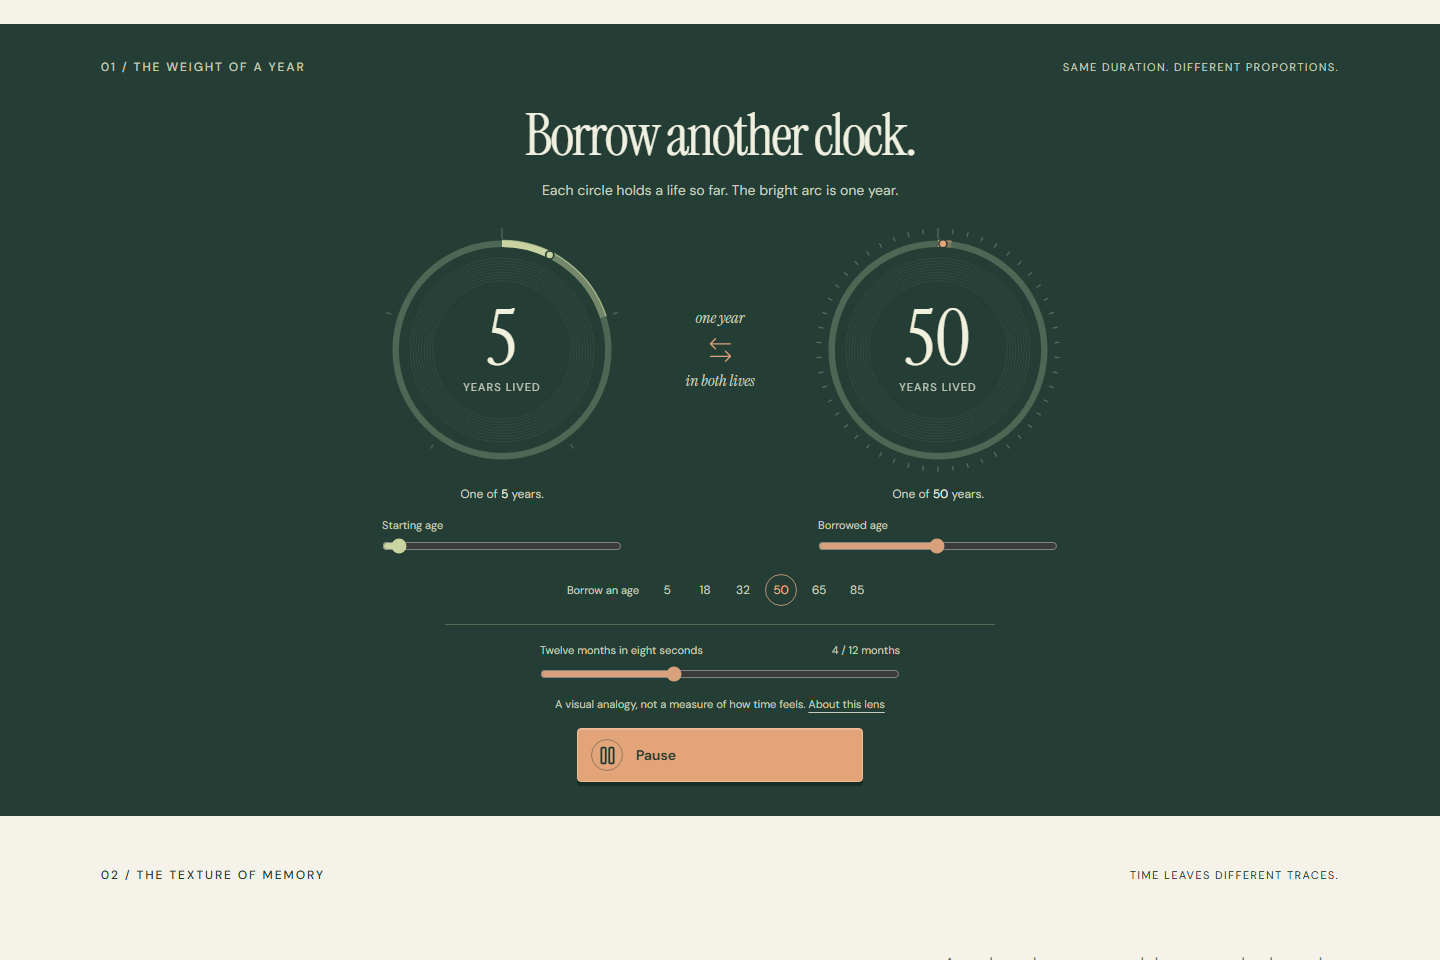
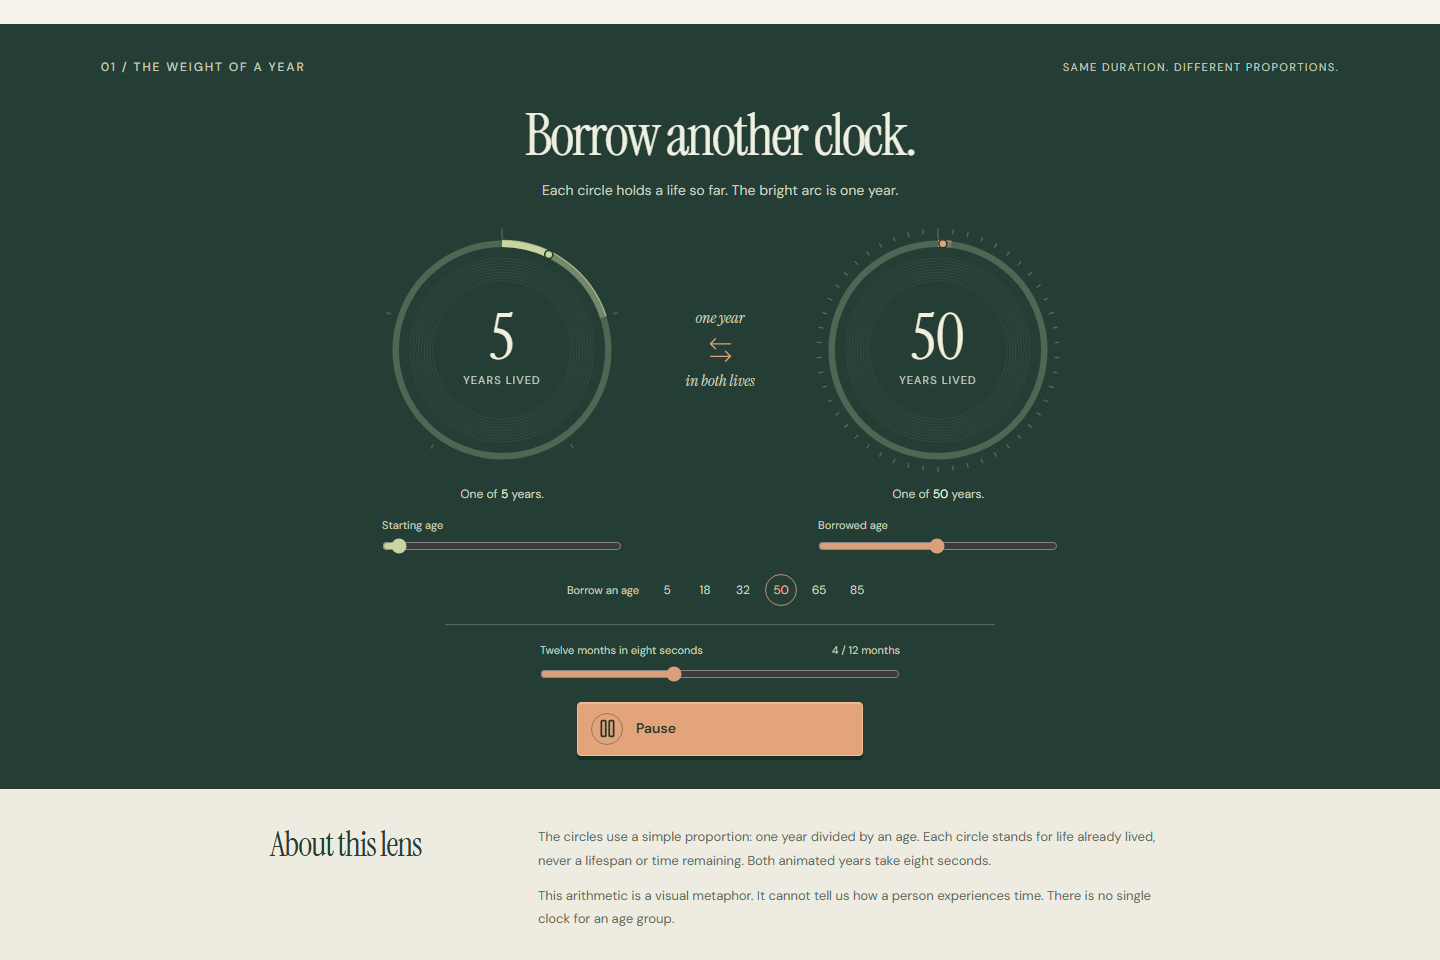
refactor: place the lens explanation beneath the clocks

Changed region(s): [[0.0, 0.7188, 1.0, 0.9688], [0.625, 0.3125, 0.6875, 0.4062], [0.3125, 0.3125, 0.375, 0.4062]]

diff --git a/src/styles.css b/src/styles.css
@@ -480,7 +480,7 @@
   }
   .dial-age {
     font-family: var(--serif);
-    font-size: 27cqi;
+    font-size: 22cqi;
     line-height: 0.85;
     color: #f1f0dd;
   }
@@ -576,18 +576,9 @@
     display: block;
     margin: 2px 0 0;
   }
-  .model-note {
-    margin: 10px 0 16px;
-    color: #c4cdbb;
-    font-size: 11px;
-    line-height: 1.5;
-    text-align: center;
-  }
-  .model-note a {
-    white-space: nowrap;
-  }
   .button.clock-play {
     position: relative;
+    margin-top: 16px;
     min-height: 54px;
     min-width: 286px;
     justify-content: flex-start;
@@ -649,6 +640,31 @@
       opacity: 0;
       transform: scale(1.09, 1.38);
     }
+  }
+  .lens-section {
+    padding: 36px 7%;
+    background: #eeebe1;
+    border-bottom: 1px solid var(--line);
+  }
+  .lens-inner {
+    display: grid;
+    grid-template-columns: 220px minmax(0, 1fr);
+    gap: 48px;
+    max-width: 900px;
+    margin: auto;
+    align-items: start;
+  }
+  .lens-section h2 {
+    font-size: 34px;
+    line-height: 1.15;
+  }
+  .lens-copy p {
+    color: #626b5b;
+    font-size: 13px;
+    line-height: 1.8;
+  }
+  .lens-copy p + p {
+    margin-top: 12px;
   }
   .memory-section {
     padding-top: 50px;
@@ -1064,7 +1080,7 @@
   }
   .about-columns {
     display: grid;
-    grid-template-columns: repeat(3, 1fr);
+    grid-template-columns: repeat(2, minmax(0, 1fr));
     gap: 50px;
   }
   .about-columns h3 {
@@ -1273,6 +1289,16 @@
     .eyebrow {
       font-size: 11px;
     }
+    .lens-section {
+      padding: 28px 6%;
+    }
+    .lens-inner {
+      grid-template-columns: 1fr;
+      gap: 16px;
+    }
+    .lens-section h2 {
+      font-size: 30px;
+    }
     .weight-heading {
       margin-top: 24px;
     }
@@ -1319,10 +1345,6 @@
     .year-scrubber label {
       font-size: 11px;
       gap: 6px;
-    }
-    .model-note {
-      max-width: 310px;
-      margin: 10px 0 16px;
     }
     .button.clock-play {
       min-width: 0;
@@ -1563,9 +1585,6 @@
     .passage-controls {
       margin-top: 12px;
       padding-top: 12px;
-    }
-    .model-note {
-      margin: 8px 0 12px;
     }
   }
   @media (prefers-reduced-motion: reduce) {

diff --git a/src/App.tsx b/src/App.tsx
@@ -74,6 +74,22 @@ export default function App() {
             </div>
           </section>
           <Weight still={still} />
+          <section className="lens-section" id="lens" aria-labelledby="lens-title">
+            <div className="lens-inner">
+              <h2 id="lens-title">About this lens</h2>
+              <div className="lens-copy">
+                <p>
+                  The circles use a simple proportion: one year divided by an age. Each circle
+                  stands for life already lived, never a lifespan or time remaining. Both animated
+                  years take eight seconds.
+                </p>
+                <p>
+                  This arithmetic is a visual metaphor. It cannot tell us how a person experiences
+                  time. There is no single clock for an age group.
+                </p>
+              </div>
+            </div>
+          </section>
           <Memory still={still} held={heldMoment} onHold={setHeldMoment} />
           <Tomorrows
             still={still}
@@ -88,18 +104,6 @@ export default function App() {
               <em>Room for your own experience.</em>
             </h2>
             <div className="about-columns">
-              <div>
-                <h3>A lens, not a law</h3>
-                <p>
-                  The circles use a simple proportion: one year divided by an age. Each circle
-                  stands for life already lived, never a lifespan or time remaining. Both animated
-                  years take eight seconds.
-                </p>
-                <p>
-                  This arithmetic is a visual metaphor. It cannot tell us how a person experiences
-                  time. There is no single clock for an age group.
-                </p>
-              </div>
               <div>
                 <h3>Your words stay here</h3>
                 <p>

diff --git a/src/components/Weight.tsx b/src/components/Weight.tsx
@@ -215,9 +215,6 @@ export default function Weight({ still }: { still: boolean }) {
             setPlaying(false)
           }}
         />
-        <p className="model-note">
-          {copy.weight.caveat} <a href="#about">About this lens</a>
-        </p>
         <p id="play-description" className="sr-only">
           {still
             ? 'Explore the comparison at your own pace.'

diff --git a/src/content/en.ts b/src/content/en.ts
@@ -10,7 +10,6 @@ export const copy = {
   weight: {
     title: 'Borrow another clock.',
     intro: 'Each circle holds a life so far. The bright arc is one year.',
-    caveat: 'A visual analogy, not a measure of how time feels.',
   },
   memory: {
     title: ['A day passes.', 'What stays?'],

diff --git a/DECISIONS.md b/DECISIONS.md
@@ -101,3 +101,9 @@ One shared scrubber and the copper play button remain below the clocks. The butt
 The principal acceptance check is the actual viewport, not a screenshot that expands to capture an oversized element. At 1366 × 768 the chapter is about 708px high; at 390 × 844 it is about 647px. A short-phone spacing variant fits the chapter into 320 × 568 while keeping the clocks, controls, and play action visible. Only the redundant visible “Borrow an age” label is omitted there; the preset group keeps its accessible name. Zoomed text and unusual aspect ratios retain natural scrolling.
 
 All 40 existing desktop/mobile browser cases pass. The new viewport regression also passes on a laptop and a short phone, including age 100 and playback with both clocks and the button visible. Its first phone run revealed a nine-pixel anchor overshoot caused by using the desktop inset; matching the existing mobile inset fixed the issue. Unit tests (15), TypeScript, the production build, privacy/runtime smoke, formatting, and whitespace checks pass. Clock inspection screenshots now capture the browser viewport.
+
+## 2026-09-10 — Give the lens its own place
+
+The creator requested the lens explanation directly beneath “Borrow another clock” and smaller numbers inside the faces. The existing explanation now appears once in a compact, separate “About this lens” section between the clocks and memory. The inline caveat/link is removed from the playback controls; the final information section retains privacy and research in two columns. Dial numbers are reduced from 27 to 22 percent of the dial width (about 19%) while the complete text group stays centered.
+
+Desktop and phone rendering confirms the section order, centered labels, and no overflow. Ten targeted Chromium cases pass across both sizes, covering the journey, keyboard playback, accessibility, enlarged layouts, and complete clock viewport fitting. TypeScript, the production build, formatting, and whitespace checks pass.

diff --git a/README.md b/README.md
@@ -6,7 +6,7 @@ A contemplative, interactive journey through the weight of a year, the texture o
 
 ## Current clock experience
 
-**Borrow another clock.** Two light rings hold five and fifty years already lived. A highlighted arc shows one year; fine ticks mark the years. Each age slider sits beneath its own clock, with a small row of quick age choices below the pair. One shared scrubber and the final copper play button control the eight-second passage. The labels remain centered, and the “one year / in both lives” arrow stays between the faces. Reduced motion offers an immediate comparison.
+**Borrow another clock.** Two light rings hold five and fifty years already lived. A highlighted arc shows one year; fine ticks mark the years. Each age slider sits beneath its own clock, with a small row of quick age choices below the pair. One shared scrubber and the final copper play button control the eight-second passage. The labels remain centered, and the “one year / in both lives” arrow stays between the faces. Reduced motion offers an immediate comparison. “About this lens” follows as a separate section explaining the proportion before the memory chapter.
 
 The chapter is sized against real viewports, including a 1366 × 768 laptop and a 320 × 568 phone. Its title, clocks, controls, and final action fit together. Enlarged text and unusual aspect ratios can still scroll naturally; content is never clipped to force a fit.
 
